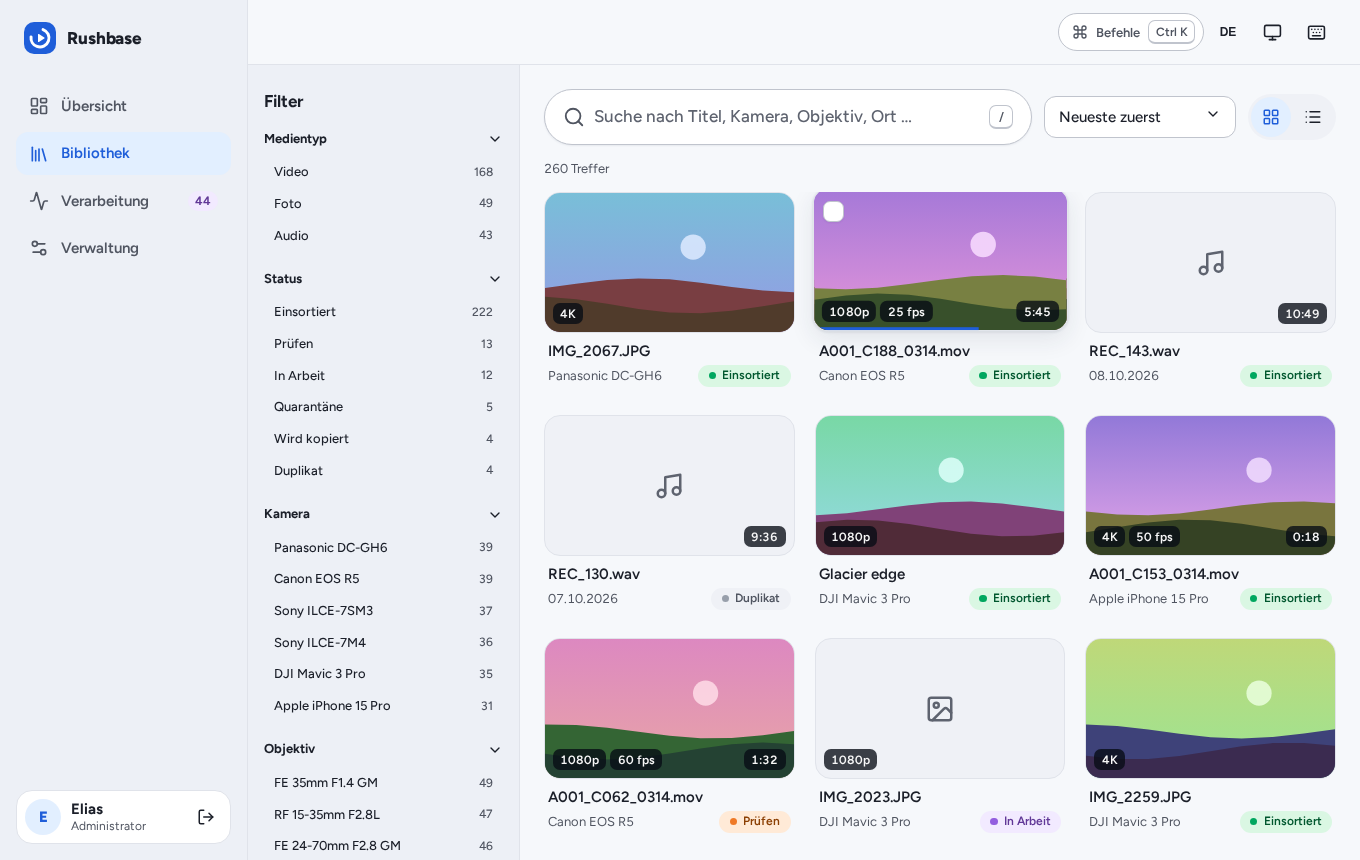
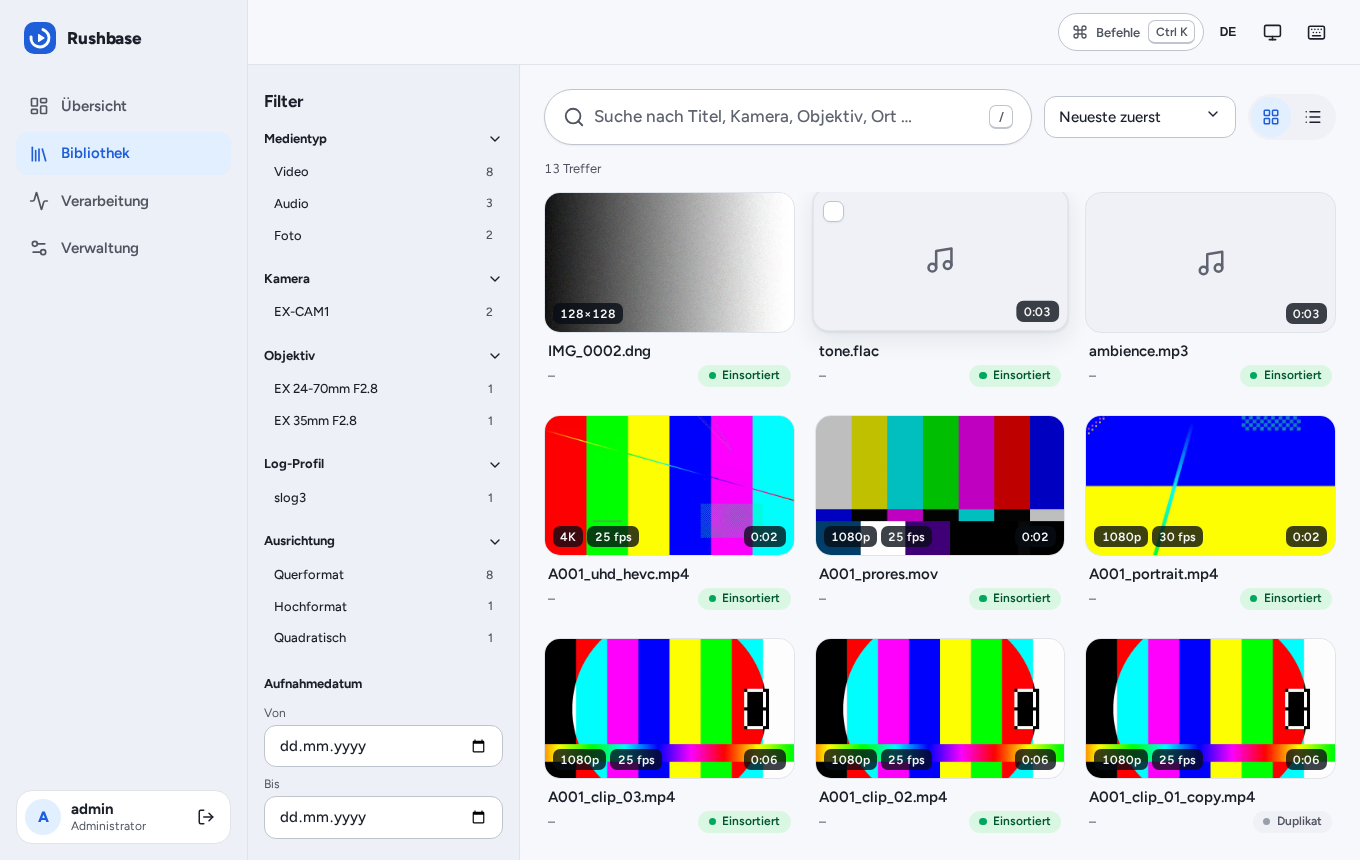
docs(web): retake screenshots from the real stack
Claude-Session: https://claude.ai/code/session_011pZJYZ7ViK7zX8Ept6ESAJ

diff --git a/web/e2e-real/screenshots.spec.ts b/web/e2e-real/screenshots.spec.ts
@@ -1,0 +1,49 @@
+import { resolve } from "node:path";
+
+import { expect, test, type Page } from "@playwright/test";
+
+// Retakes docs/screenshots/{dashboard,library,asset,processing}-{light,dark}.png from the real
+// stack. Runs after real.spec.ts (same server, already processed) when RUSHBASE_E2E_SCREENSHOTS=1.
+const OUT = resolve(import.meta.dirname, "../../docs/screenshots");
+const PASSWORD = "a-long-password-1";
+
+test.skip(process.env.RUSHBASE_E2E_SCREENSHOTS !== "1", "set RUSHBASE_E2E_SCREENSHOTS=1");
+
+async function settle(page: Page) {
+  await page.waitForLoadState("networkidle");
+  await page.waitForTimeout(1200);
+}
+
+for (const scheme of ["light", "dark"] as const) {
+  test.describe(`real screenshots ${scheme}`, () => {
+    test.use({ colorScheme: scheme, viewport: { width: 1360, height: 860 } });
+
+    test(`app pages (${scheme})`, async ({ page }) => {
+      const shot = async (name: string) => {
+        await settle(page);
+        await page.screenshot({ path: `${OUT}/${name}-${scheme}.png`, animations: "disabled" });
+      };
+      await page.addInitScript(() => window.localStorage.setItem("rushbase.lang", "de"));
+      await page.goto("/login");
+      await page.getByLabel("Benutzername").fill("admin");
+      await page.getByLabel("Passwort").fill(PASSWORD);
+      await page.getByRole("button", { name: "Anmelden" }).click();
+      await page.getByRole("heading", { level: 1 }).waitFor();
+      await shot("dashboard");
+
+      await page.getByRole("link", { name: "Bibliothek" }).click();
+      await expect(page.getByText(/\d+ Treffer/)).toBeVisible();
+      await page.locator(".rb-tile__media").nth(1).hover({ position: { x: 150, y: 60 } });
+      await shot("library");
+
+      await page.getByRole("button", { name: /^Video \d/ }).click();
+      await page.locator(".rb-tile__media").first().click();
+      await expect(page.locator("video")).toBeVisible();
+      await expect(page.getByRole("tab", { name: "Technik" })).toBeVisible();
+      await shot("asset");
+
+      await page.getByRole("link", { name: /Verarbeitung/ }).click();
+      await shot("processing");
+    });
+  });
+}
